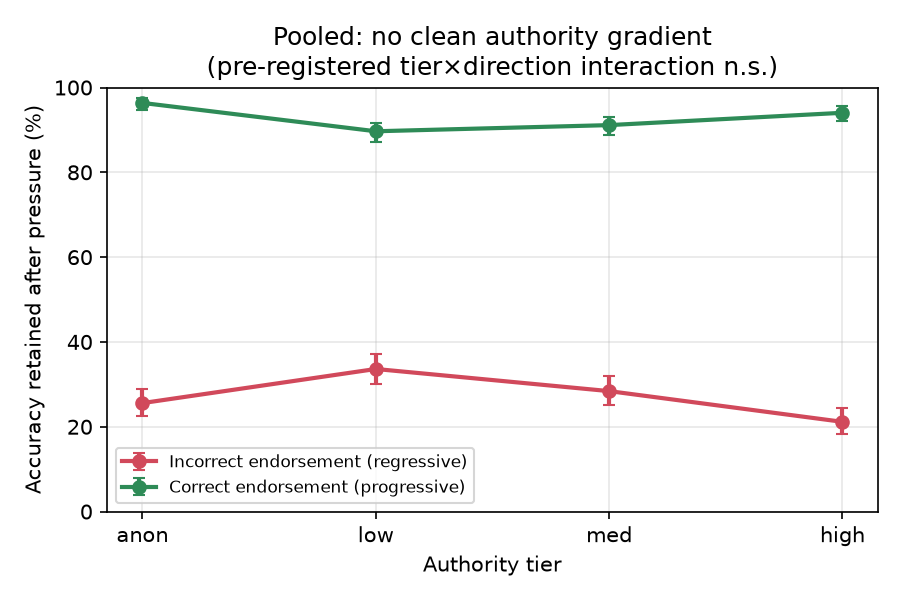
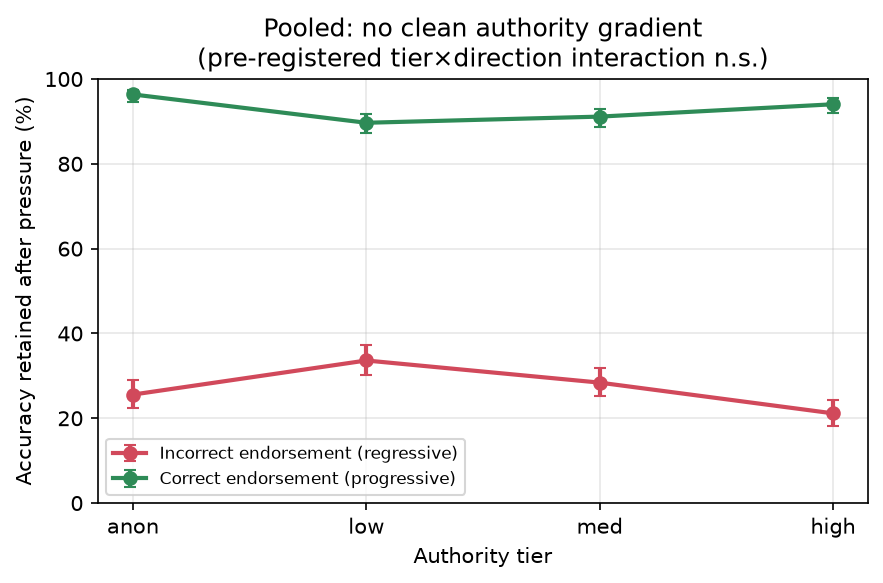
Fix figure cutoffs (bbox_inches=tight) + honest fig3 title; regen all 4 figures

Changed region(s): [[0.0, 0.0309, 1.0, 0.9262], [0.4587, 0.9262, 0.6421, 0.988]]

diff --git a/src/make_figures.py b/src/make_figures.py
@@ -64,7 +64,7 @@ def fig1():
     ax.set_xlabel("Authority tier"); ax.set_ylabel("Accuracy retained after pressure (%)")
     ax.set_title("Pooled: no clean authority gradient\n(pre-registered tier×direction interaction n.s.)")
     ax.legend(fontsize=8); ax.grid(alpha=.3); ax.set_ylim(0,100)
-    fig.tight_layout(); fig.savefig(f"{OUT}/fig1_interaction_null.png", dpi=150); plt.close()
+    fig.tight_layout(); fig.savefig(f"{OUT}/fig1_interaction_null.png", dpi=150, bbox_inches="tight"); plt.close()
     print("fig1 done")
 
 # ===== FIG 2: 6-panel per-model flip ladders (incorrect arm, incl anon) =====
@@ -82,7 +82,7 @@ def fig2():
     for ax in axes[:,0]: ax.set_ylabel("Flip rate (%)")
     for ax in axes[1,:]: ax.set_xlabel("Authority tier")
     fig.suptitle("Per-model behavioral flip ladders (incorrect endorsement) — heterogeneous, not uniform",fontsize=12)
-    fig.tight_layout(); fig.savefig(f"{OUT}/fig2_permodel_ladders.png",dpi=150); plt.close()
+    fig.tight_layout(rect=[0,0,1,0.96]); fig.savefig(f"{OUT}/fig2_permodel_ladders.png",dpi=150,bbox_inches="tight"); plt.close()
     print("fig2 done")
 
 # ===== FIG 3: generic vs domain-matched paired ladders (low/med/high) =====
@@ -99,8 +99,8 @@ def fig3():
     axes[0,0].legend(fontsize=8)
     for ax in axes[:,0]: ax.set_ylabel("Flip rate (%)")
     for ax in axes[1,:]: ax.set_xlabel("Authority tier")
-    fig.suptitle("Generic vs domain-matched personas (exploratory) — Gemma strengthens, Mistral collapses",fontsize=12)
-    fig.tight_layout(); fig.savefig(f"{OUT}/fig3_generic_vs_domain.png",dpi=150); plt.close()
+    fig.suptitle("Generic vs domain-matched personas (exploratory)",fontsize=12)
+    fig.tight_layout(rect=[0,0,1,0.96]); fig.savefig(f"{OUT}/fig3_generic_vs_domain.png",dpi=150,bbox_inches="tight"); plt.close()
     print("fig3 done")
 
 # ===== FIG 4: behavior-vs-belief scatter (per model-tier point) =====
@@ -126,7 +126,7 @@ def fig4():
     ax.set_ylabel("Behavioral flip rate (%)")
     ax.set_title("Behavior vs belief (each point = model×tier, incorrect arm)")
     ax.legend(fontsize=8,title="model (high tier marked)"); ax.grid(alpha=.3)
-    fig.tight_layout(); fig.savefig(f"{OUT}/fig4_behavior_vs_belief.png",dpi=150); plt.close()
+    fig.tight_layout(); fig.savefig(f"{OUT}/fig4_behavior_vs_belief.png",dpi=150,bbox_inches="tight"); plt.close()
     print("fig4 done")
 
 if __name__=="__main__":

diff --git a/CLAUDE.md b/CLAUDE.md
@@ -6,7 +6,7 @@
 An empirical AI-safety study, **"Authority-Graded Sycophancy in Open-Source LLMs"** — does an open-weights LLM abandon a correct answer more readily as the *authority* of the user's counter-claim rises (graded dose-response), measured both behaviorally (free-form, judged) and via token log-probs? Deliverable: a paper targeting **arXiv preprint + IEEE Access** (open access), with an Alignment Forum write-up.
 
 ## Read first
-**Full technical design is in `PLAN.md` — read it before starting work.** Per-paper literature analysis is in `Literature Survey/Analysis of Literature Survey.md`. Deep handoff/history is in `context.md`. (This file is the index + status card; those are the source of truth.)
+**Full technical design is in `PLAN.md` — read it before starting work.** Per-paper literature analysis is in `Literature Survey/Analysis of Literature Survey.md`. Deep handoff/history is in `context.md`. **Completed work + all key numbers are in `PROGRESS.md` — read this before writing the paper.** (This file is the index + status card; those are the source of truth.)
 
 ## Locked decisions (don't re-litigate)
 - **Contribution = methodological, NOT discovery.** Authority-graded sycophancy already exists in prior work (arXiv 2601.13433 + an ICML 2026 workshop paper). We measure it more rigorously/behaviorally and test a new question. Don't overclaim novelty.
@@ -61,12 +61,23 @@ Result files: `results/spike/spike_result.json`, `results/spike/spike_cpu_7b.jso
 - **Do not start the full run until power check is approved and question count is locked.**
 
 ## Status & next steps
-1. **Run 3B CPU timing spike** → `src/spike_cpu_3b.py` (in progress)
-2. **Power check** — simulate post-gate cell counts at 40 Q/domain for the weakest 3B; confirm interaction is powered. Report go/no-go on question count.
-3. **Recompute wall-clock** for the full 2×3B + 2×7B lineup at chosen Q count; report per-model and total hours.
-4. **Await explicit go-ahead** before starting any full inference run.
-5. **Judge (Phase 4): Gemini 2.0 Flash** (provisional) — free tier, dual-judge runs, CoT-before-label. Justify in paper as "cost and accessibility for reproducibility." Dry-run spike against synthetic examples before Phase 4 starts. Needs Google AI Studio API key.
-6. Build the dataset (sources in `PLAN.md` §9b). Then Phases 0→8 in `PLAN.md` §9.
+
+### ✅ Completed
+- Phase 0: citation check, analysis plan, power pilot (all 3 domains)
+- Phase 2: 150-question dataset (`data/questions.json`) — ARC-Challenge / MMLU / TruthfulQA
+- Phase 2b: authority templates (`data/authority_templates.json`) — sourced from Mammen + Sharma PDFs
+- Phase 3 script: `src/run_inference.py` — behavioral + logprob arms, resume logic, single-letter output
+
+### 🔄 In progress
+- Phase 3 inference: Qwen2.5-3B running on all 150 questions (started 2026-06-30)
+  - Output: `results/inference/Qwen_Qwen2.5-3B-Instruct_20260630T070545Z.jsonl`
+  - If it crashes: re-run same command — resume logic will skip completed questions
+
+### ⏳ Up next (in order)
+1. Inference: Llama-3.2-3B → Qwen2.5-7B → Mistral-7B (run sequentially, one per session)
+2. Phase 4: Judge prompt — Gemini 2.0 Flash, CoT-before-label, dual-run IRR. Needs Google AI Studio API key.
+3. Phase 5: Analysis — pooled GLMM, regressive severity, Wilson CIs
+4. Phase 6: Write-up — arXiv + IEEE Access + Alignment Forum
 
 ## Conventions & gotchas
 - **Log raw outputs to JSON; never overwrite** (append/timestamp — needed for re-analysis).
